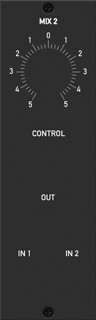
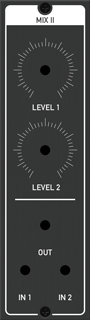
Implemented CCOLComponentMixer

diff --git a/ColaLib/ColaLib/CCOL/CCOLComponentMixer.cpp b/ColaLib/ColaLib/CCOL/CCOLComponentMixer.cpp
@@ -1,0 +1,47 @@
+//
+//  CCOLComponentMixer.cpp
+//  ColaLib
+//
+//  Created by Chris on 24/11/2015.
+//  Copyright © 2015 Chris Rivers. All rights reserved.
+//
+
+#include "CCOLComponentMixer.hpp"
+#include <math.h>
+
+void CCOLComponentMixer::initializeIO() {
+    
+    input1 = new CCOLComponentInput(this, kIOTypeAudio, (char*)"In 1");
+    input2 = new CCOLComponentInput(this, kIOTypeAudio, (char*)"In 2");
+    setInputs(vector<CCOLComponentInput*> { input1, input2 });
+    
+    output = new CCOLComponentOutput(this, kIOTypeAudio, (char*)"Out");
+    setOutputs(vector<CCOLComponentOutput*> { output });
+    
+    level1 = new CCOLComponentParameter(this, (char*)"Level 1");
+    level2 = new CCOLComponentParameter(this, (char*)"Level 2");
+    setParameters(vector<CCOLComponentParameter*> { level1, level2 });
+
+    level1->setNormalizedValue(0.5);
+    level2->setNormalizedValue(0.5);
+    
+}
+
+void CCOLComponentMixer::renderOutputs(unsigned int numframes) {
+    
+    CCOLComponent::renderOutputs(numframes);
+    
+    SignalType *inputBuffer1 = input1->getBuffer(numframes);
+    SignalType *inputBuffer2 = input2->getBuffer(numframes);
+    
+    SignalType *outputBuffer = output->prepareBufferOfSize(numframes);
+    
+    for (int i = 0; i < numframes; i++) {
+        float delta = i / numframes;
+        float level1Output = level1->getOutputAtDelta(delta);
+        float level2Output = level2->getOutputAtDelta(delta);
+        
+        outputBuffer[i] = tanhf((inputBuffer1[i] * level1Output) + (inputBuffer2[i] * level2Output));
+    }
+    
+}

diff --git a/ColaLib/ColaLib/CCOL/CCOLComponentMixer.hpp b/ColaLib/ColaLib/CCOL/CCOLComponentMixer.hpp
@@ -1,0 +1,34 @@
+//
+//  CCOLComponentMixer.hpp
+//  ColaLib
+//
+//  Created by Chris on 24/11/2015.
+//  Copyright © 2015 Chris Rivers. All rights reserved.
+//
+
+#ifndef CCOLComponentMixer_hpp
+#define CCOLComponentMixer_hpp
+
+#include <stdio.h>
+#include "CCOLComponent.hpp"
+
+class CCOLComponentMixer : public CCOLComponent {
+    
+    CCOLComponentInput *input1;
+    CCOLComponentInput *input2;
+    
+    CCOLComponentOutput *output;
+    
+    CCOLComponentParameter *level1;
+    CCOLComponentParameter *level2;
+    
+public:
+    CCOLComponentMixer(CCOLAudioContext *contextIn):CCOLComponent(contextIn) {
+        
+    }
+    
+    void            initializeIO() override;
+    void            renderOutputs(unsigned int numFrames) override;
+};
+
+#endif /* CCOLComponentMixer_hpp */

diff --git a/ColaLib/ColaLib/CCOL/CCOLAudioEngine.cpp b/ColaLib/ColaLib/CCOL/CCOLAudioEngine.cpp
@@ -194,6 +194,8 @@ CCOLComponentAddress CCOLAudioEngine::createComponent(char* componentType) {
         newComponent = new CCOLComponentVCA(audioContext);
     } else if (string(componentType) == kCCOLComponentTypeMultiples) {
         newComponent = new CCOLComponentMultiples(audioContext);
+    } else if (string(componentType) == kCCOLComponentTypeMixer) {
+        newComponent = new CCOLComponentMixer(audioContext);
     } else if (string(componentType) == KCCOLComponentTypeMIDI) {
         newComponent = new CCOLMIDIComponent(audioContext);
     }

diff --git a/ColaLib/ColaLib/CCOL/CCOLTypes.h b/ColaLib/ColaLib/CCOL/CCOLTypes.h
@@ -21,6 +21,7 @@ typedef unsigned long long  CCOLParameterAddress;
 #define kCCOLComponentTypeLFO           "CCOLComponentTypeLFO"
 #define kCCOLComponentTypeVCA           "CCOLComponentTypeVCA"
 #define kCCOLComponentTypeMultiples     "CCOLComponentTypeMultiples"
+#define kCCOLComponentTypeMixer         "CCOLComponentTypeMixer"
 #define KCCOLComponentTypeMIDI          "CCOLMIDIComponent"
 
 // Interapp audio keys

diff --git a/ColaLib/ColaLib/CCOL/CCOLComponents.h b/ColaLib/ColaLib/CCOL/CCOLComponents.h
@@ -14,6 +14,7 @@
 #import "CCOLComponentLFO.hpp"
 #import "CCOLComponentVCA.hpp"
 #import "CCOLComponentMultiples.hpp"
+#import "CCOLComponentMixer.hpp"
 #import "CCOLMIDIComponent.hpp"
 
 #endif /* CCOLComponents_h */
